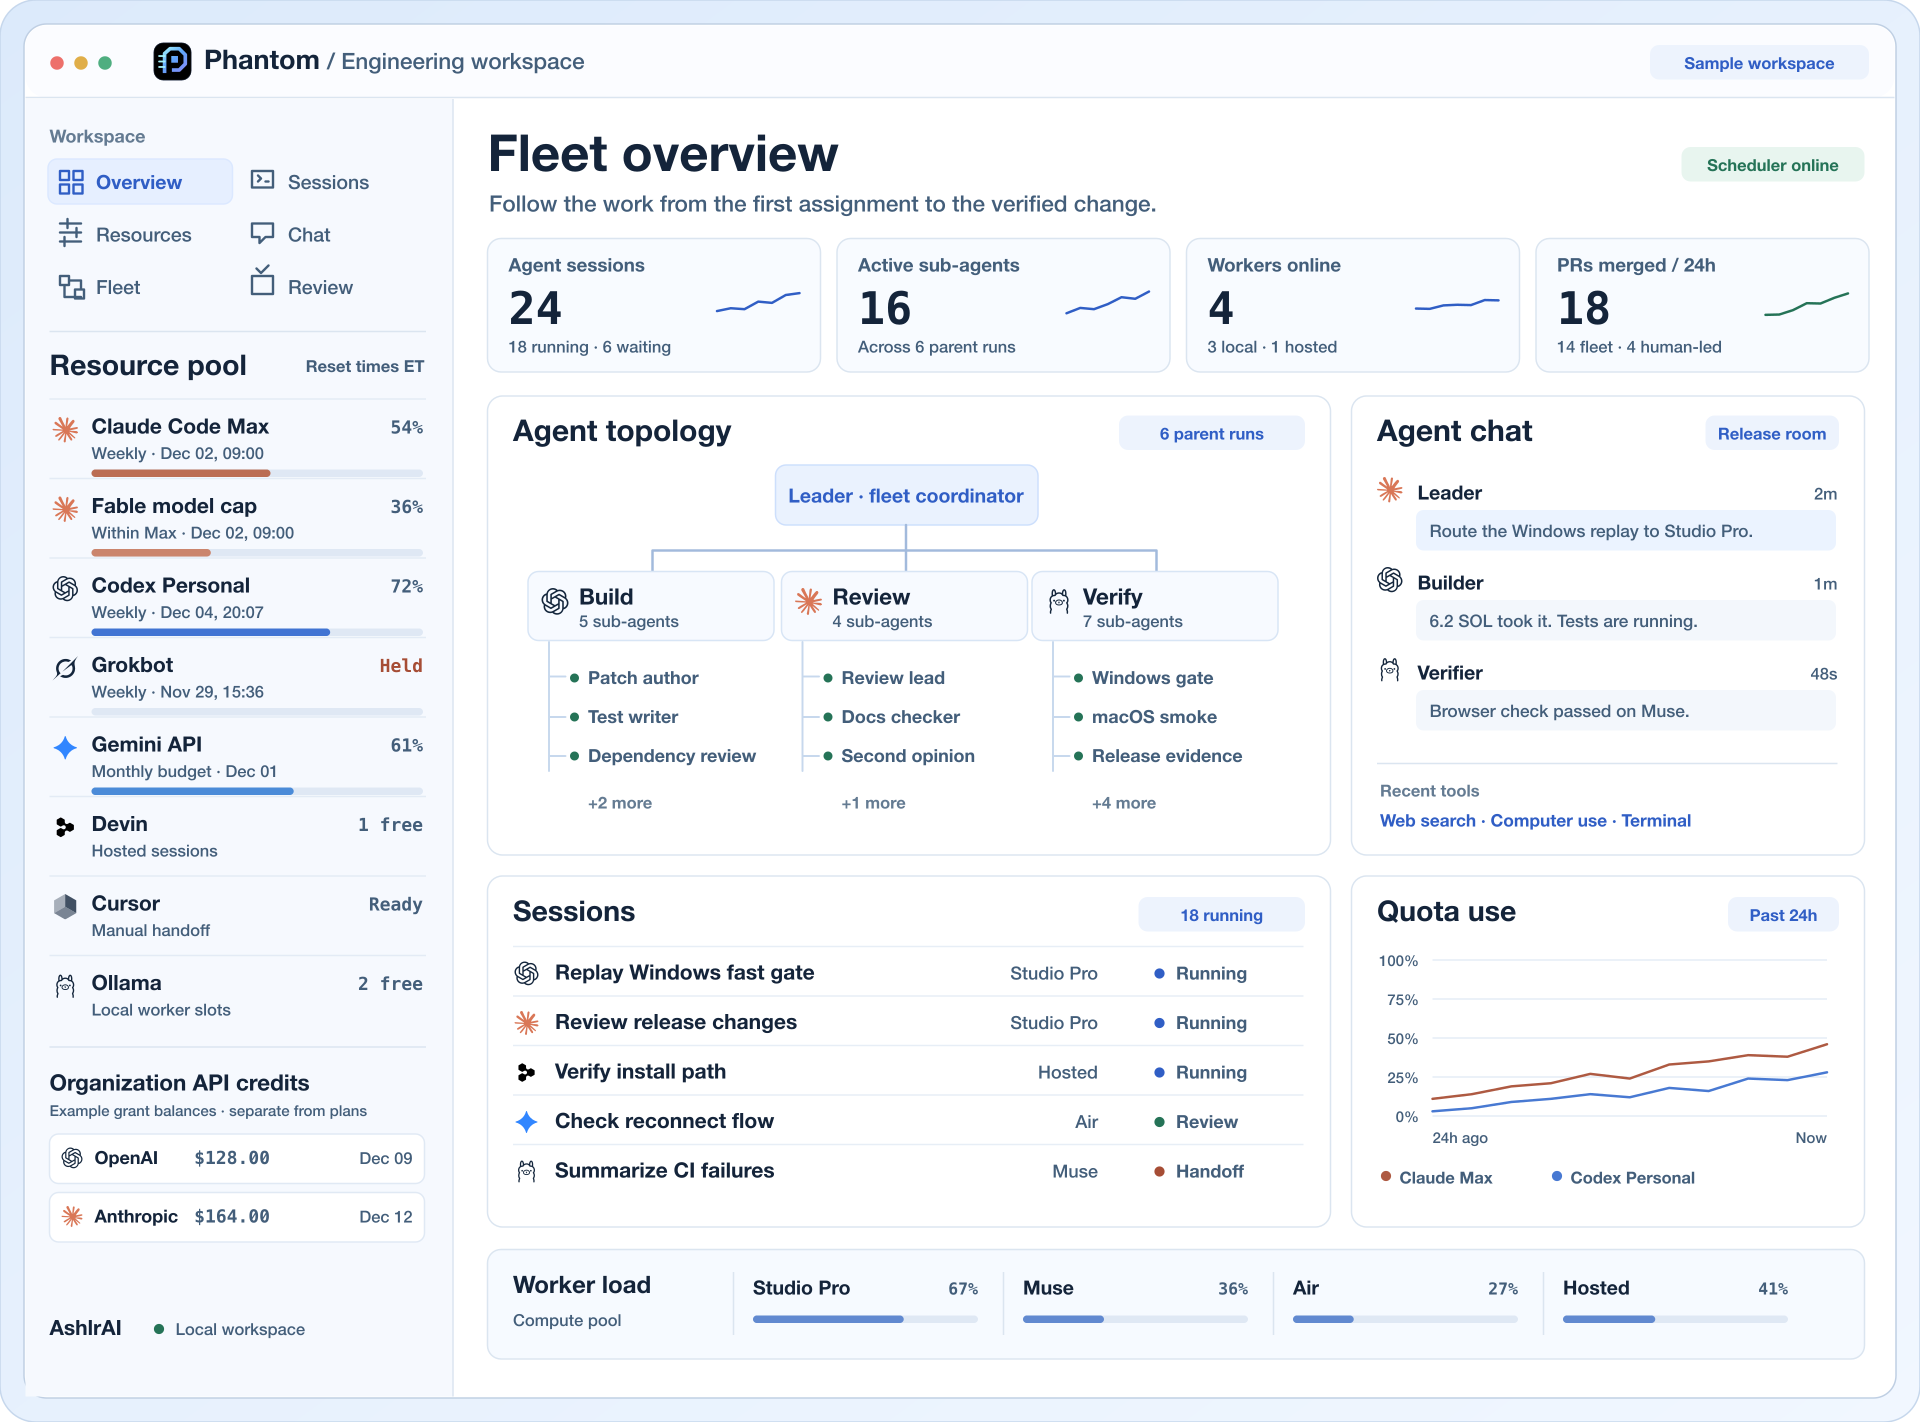
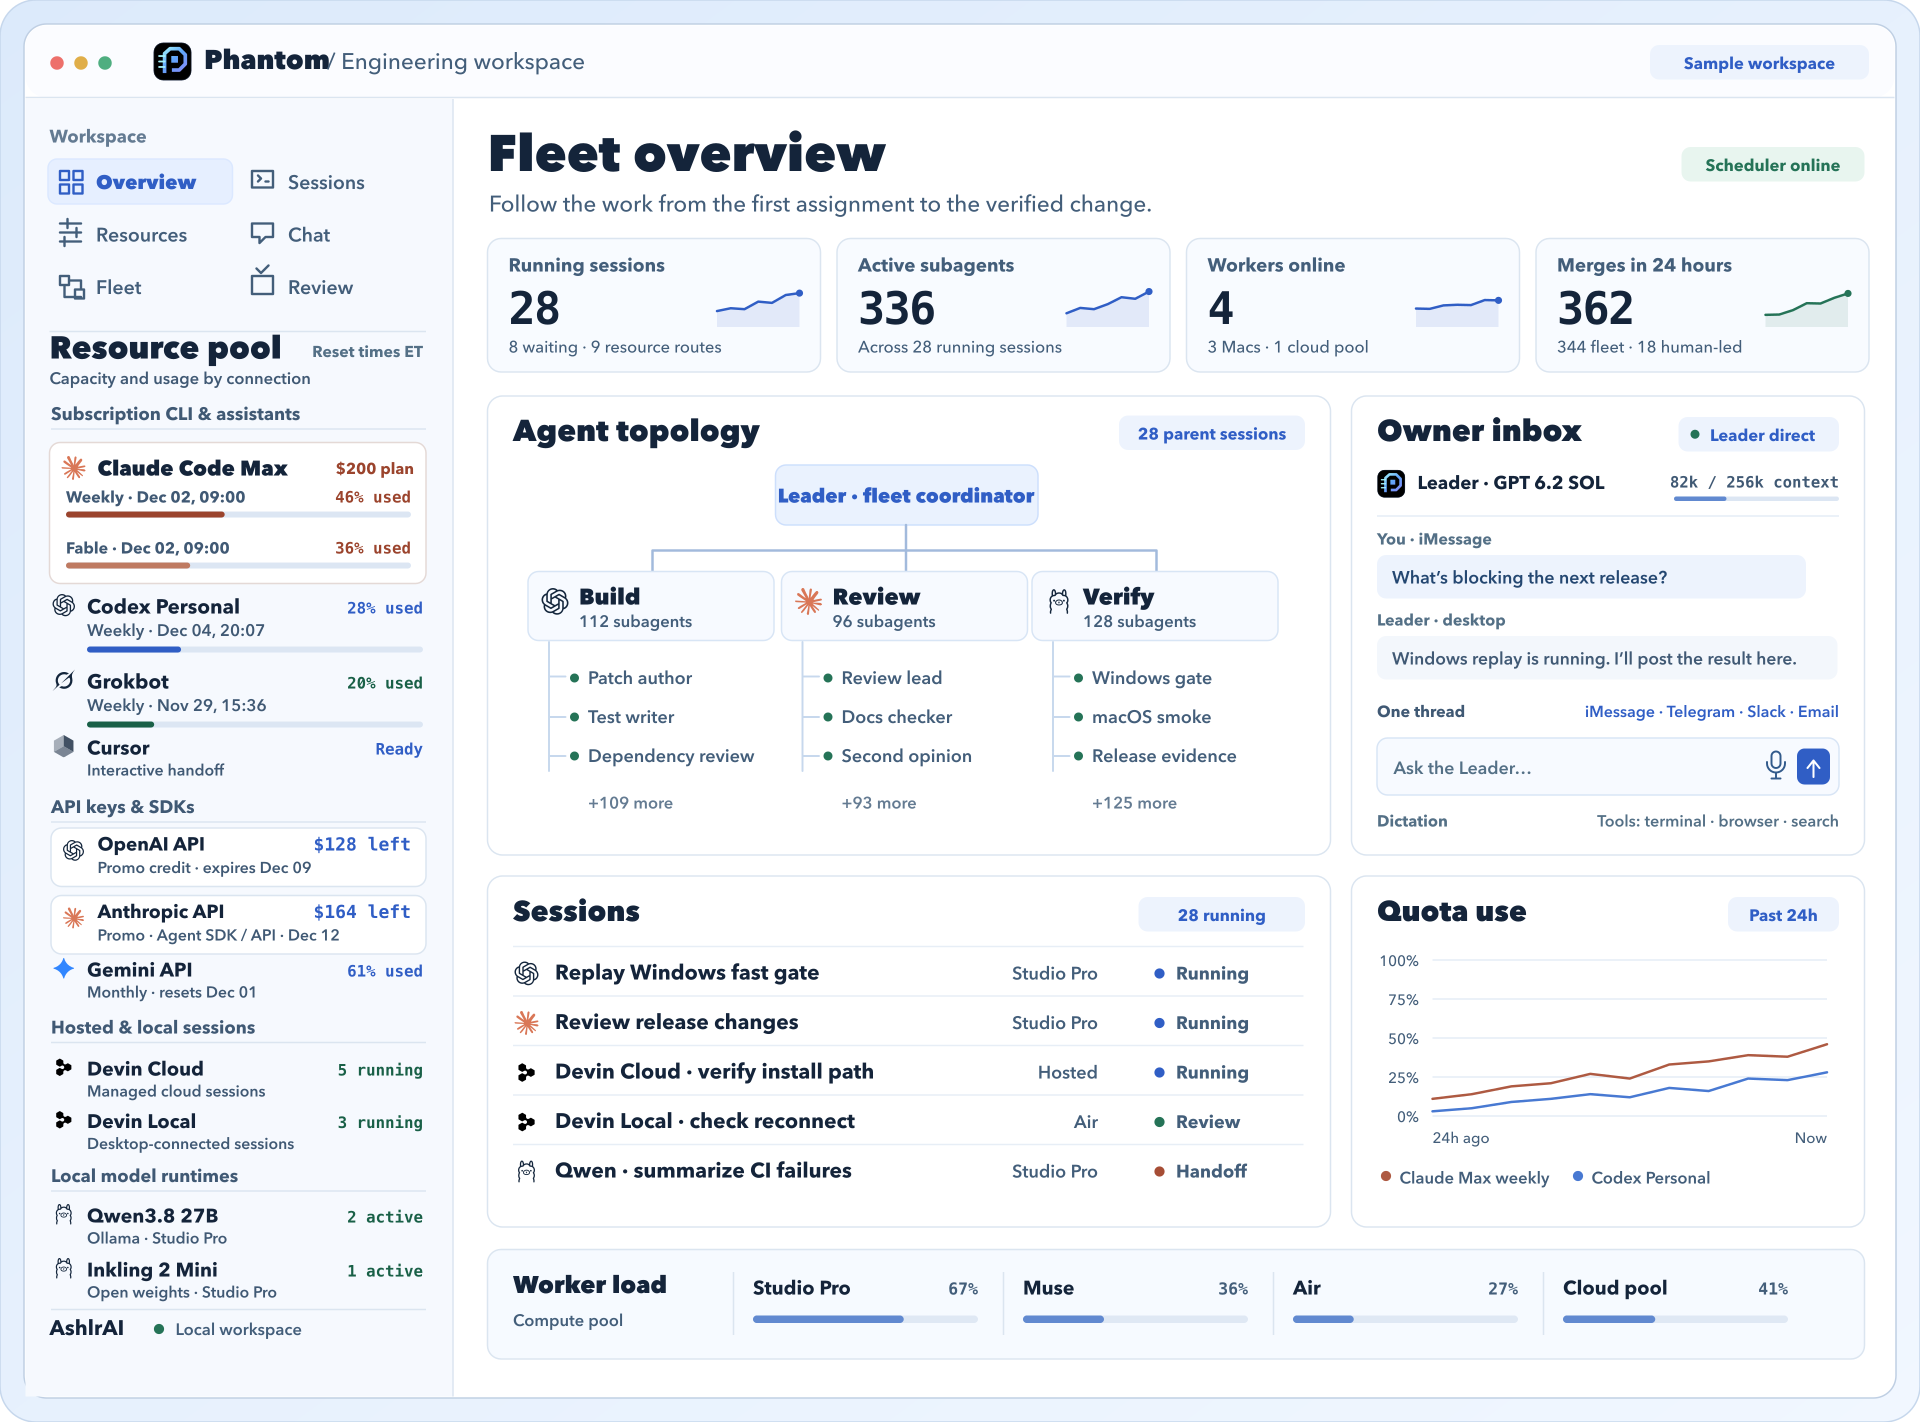
docs: show fleet scale and the owner’s Leader inbox (#10682)

diff --git a/test/readme-brand.test.ts b/test/readme-brand.test.ts
@@ -63,6 +63,8 @@ describe('README top-half brand contract', () => {
     const path = 'docs/images/phantom-fleet-overview.png';
     expect(readme).toMatch(/!\[[^\]]*resource balances[^\]]*\]\(docs\/images\/phantom-fleet-overview\.png\)/);
     expect(readme).toContain('Phantom Fleet overview with sample data.');
+    expect(readme).toContain('362 merges in 24 hours');
+    expect(readme).toContain('Leader inbox with dictation');
     expect(readme).toContain('[See the current Fleet capture with demo data](docs/images/phantom-fleet-demo.png)');
     const png = readFileSync(join(ROOT, path));
     expect(png.subarray(1, 4).toString()).toBe('PNG');

diff --git a/README.md b/README.md
@@ -20,9 +20,9 @@ Chasing open-source RSI (recursive self-improvement) is Phantom's mission. We're
 
 Agents run the factory; the human owner acts as a passive board member. Agents pick work, open pull requests, merge them and ship releases through the sanctioned workflow. The owner sets direction and is needed only for passwords, 2FA, device approvals and payments. See [how agents work on Phantom](#how-agents-work-on-phantom).
 
-[![Phantom Fleet overview with resource balances in the left sidebar, agent and sub-agent topology, tool activity, sessions, usage trends, and worker load.](docs/images/phantom-fleet-overview.png)](docs/images/phantom-fleet-overview.png)
+[![Phantom Fleet overview with resource balances, 28 running sessions, 336 active subagents, 362 merges in 24 hours, and a Leader inbox with dictation, model and context indicators.](docs/images/phantom-fleet-overview.png)](docs/images/phantom-fleet-overview.png)
 
-*Phantom Fleet overview with sample data. Balances, counts, and trends are illustrative. [See the current Fleet capture with demo data](docs/images/phantom-fleet-demo.png) or [read the visual notes](docs/images/CAPTURES.md).*
+*Phantom Fleet overview with sample data. Balances, counts, trends, and inbox controls are illustrative, not measured performance or feature availability. [See the current Fleet capture with demo data](docs/images/phantom-fleet-demo.png) or [read the visual notes](docs/images/CAPTURES.md).*
 
 ## What you can do
 
@@ -36,7 +36,7 @@ Agents run the factory; the human owner acts as a passive board member. Agents p
 | **Agent bus** | Follow durable messages, threads and coordination events between agents. [Bus contract](https://github.com/ashlrai/phantom/blob/master/docs/AGENT-BUS.md). |
 | **Resource pool and routing** | Inspect connected accounts and local models, observed quota, and fleet routing decisions. Unknown values stay unknown, and a connected resource is not automatically eligible to launch. [Queue market](docs/QUEUE.md). |
 | **Computers** | Read reachability, free memory, lanes and running jobs. Each machine keeps its own provider sign-in. [Add a computer](https://github.com/ashlrai/phantom/blob/master/docs/add-a-computer.md). |
-| **Comms** | Read one owner thread across configured channels. Adapters require setup; send policies still apply. [Owner thread](https://github.com/ashlrai/phantom/blob/master/docs/OWNER-THREAD.md). |
+| **Owner inbox and comms** | Read one owner thread across configured channels and use it to ask the Leader for evidence or direction. Adapters require setup; send policies still apply. [Owner thread](https://github.com/ashlrai/phantom/blob/master/docs/OWNER-THREAD.md). |
 | **Secrets** | Connect the separately installed Phantom Secrets companion through MCP; use secret references in agent work. [Companion setup](docs/COMPANIONS.md). |
 | **Release train** | Inspect release status, qualification and publication evidence. Releases use the repository's sanctioned workflow. [Release guide](https://github.com/ashlrai/phantom/blob/master/docs/RELEASING.md). |
 

diff --git a/docs/images/CAPTURES.md b/docs/images/CAPTURES.md
@@ -2,7 +2,7 @@
 
 ## Fleet overview illustration
 
-[Phantom Fleet overview](phantom-fleet-overview.png) is the 1920 × 1422 editorial PNG also used on the [AshlrAI organization profile](https://github.com/ashlrai). It is a product illustration, not a capture from a running build. Provider balances, agent and session counts, and trends are synthetic. The source asset is the [approved organization-profile PNG](https://github.com/ashlrai/.github/blob/580712464e934f7024348cedbd4ac6b8970dd5d5/profile/assets/portable/phantom-fleet-overview.png). The three browser captures below remain available for comparison.
+[Phantom Fleet overview](phantom-fleet-overview.png) is the 1920 × 1422 editorial PNG also used on the [AshlrAI organization profile](https://github.com/ashlrai). It is a product illustration, not a capture from a running build. Provider balances and throughput are synthetic: 362 merges in 24 hours, 28 running sessions, and 336 active subagents. The single owner inbox depicts a cross-channel Leader thread, a microphone for dictation, and illustrative model and context indicators. The source asset is the [approved organization-profile PNG](https://github.com/ashlrai/.github/blob/0cfe776857b2b800c8c7e3ec9319698f696f4aca/profile/assets/portable/phantom-fleet-overview.png). The three browser captures below remain available for comparison.
 
 ## Current-source browser captures
 
